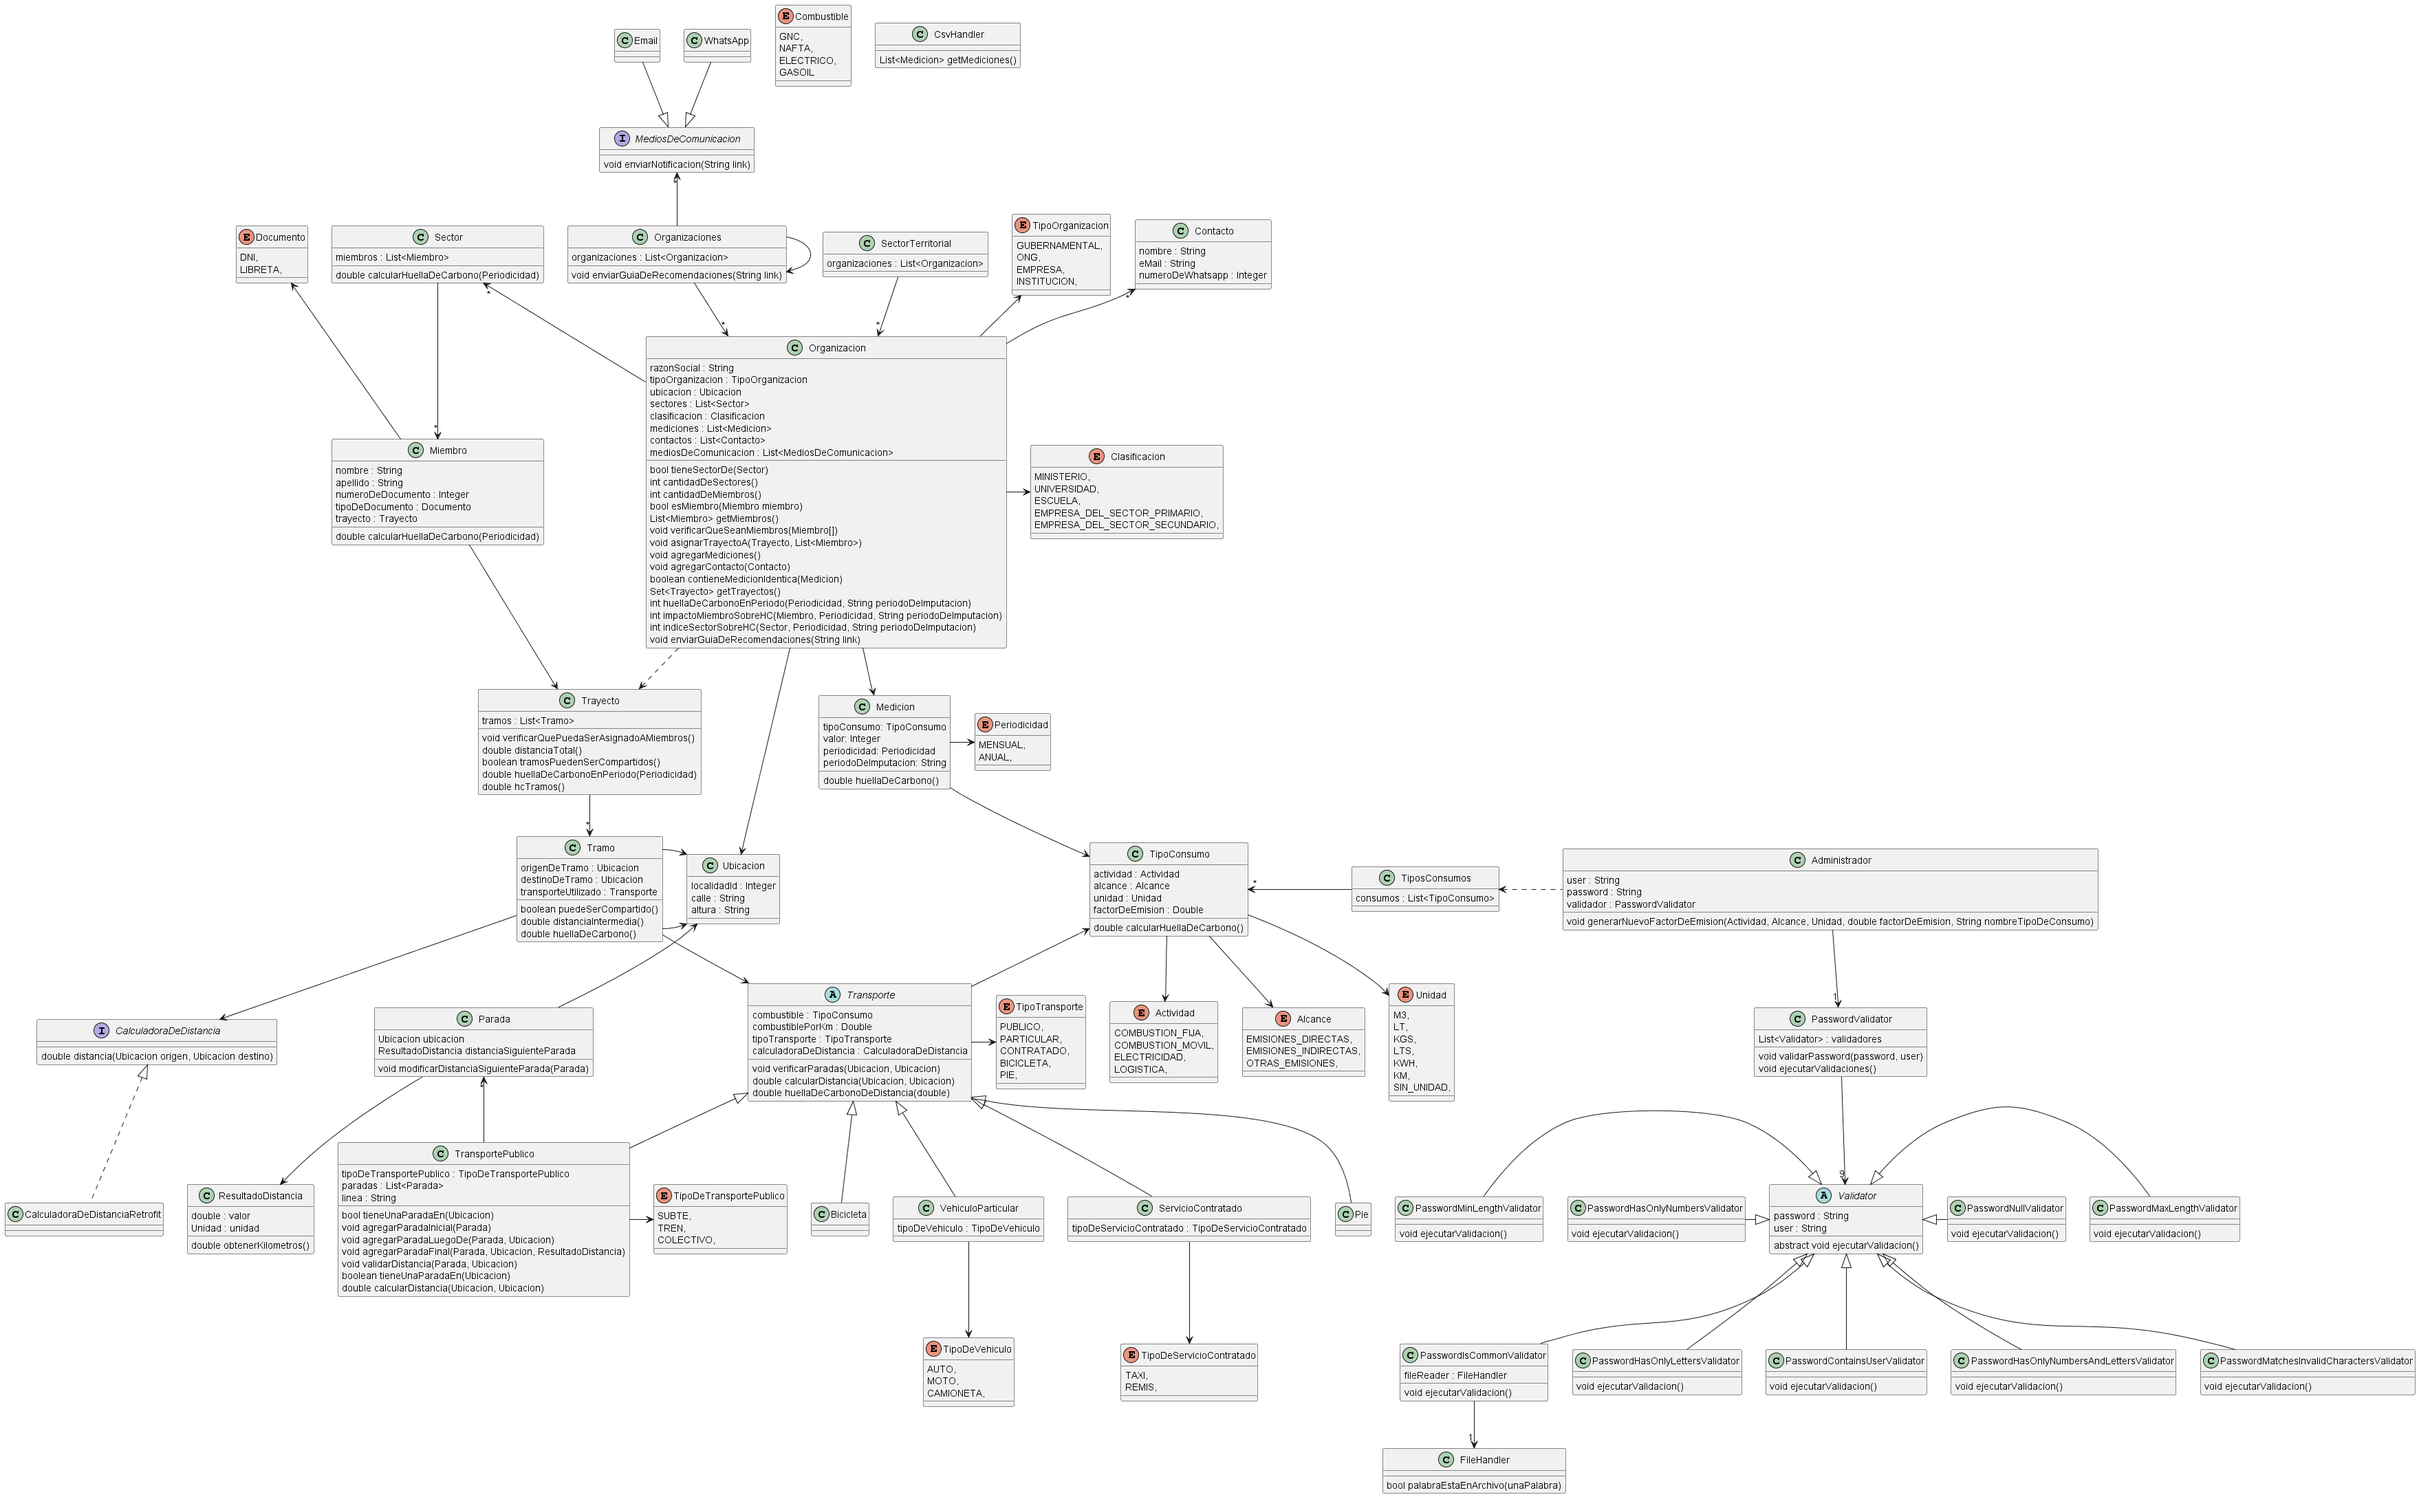
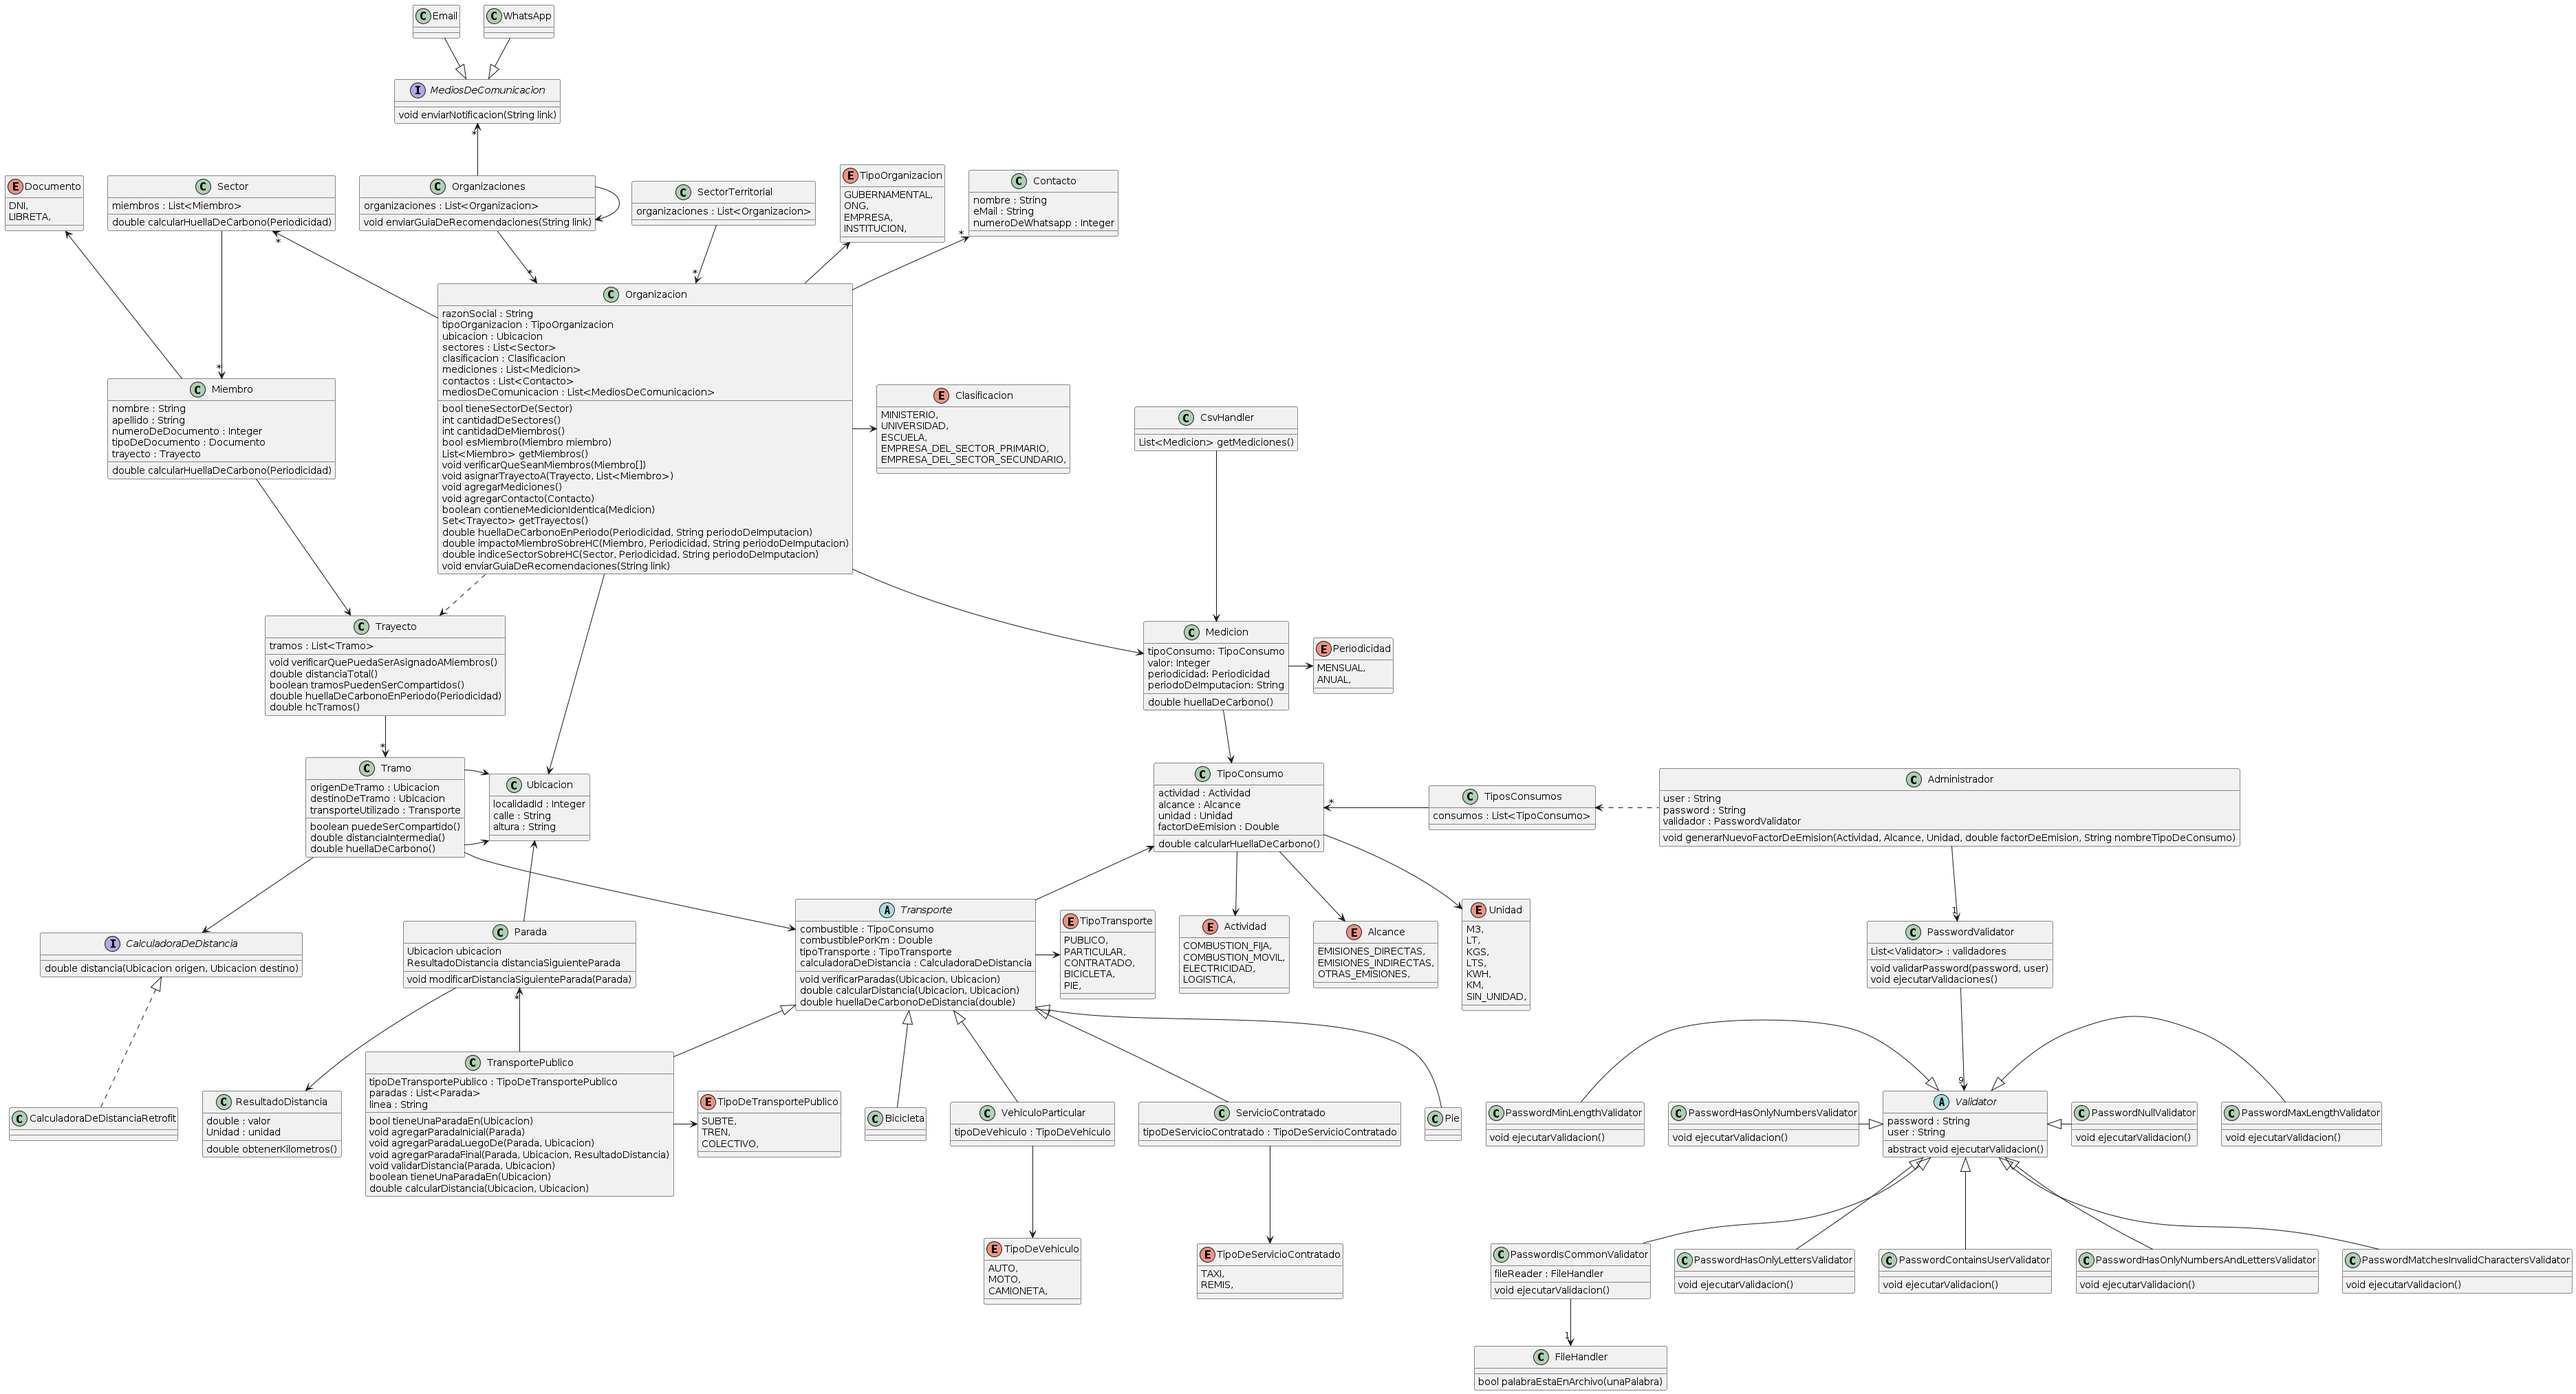
Update diagrama + borrado de TODOs

diff --git a/src/main/java/domain/organizacion/Organizacion.java b/src/main/java/domain/organizacion/Organizacion.java
@@ -132,9 +132,6 @@ public class Organizacion {
     mediosDeComunicacion.add(medioDeComunicacion);
   }
 
-
-  // Cambiado a double
-  // TODO: Cambiar en diagrama
   public double huellaDeCarbonoEnPeriodo(Periodicidad periodicidad, String periodoDeImputacion) {
     return hcMedicionesEnPeriodo(periodicidad, periodoDeImputacion)
         + hcTrayectosMiembros(periodicidad);
@@ -169,24 +166,17 @@ public class Organizacion {
         .collect(Collectors.toSet());
   }
 
-  // Cambiado a double
-  // TODO: Cambiar en diagrama
   public double impactoMiembroSobreHC(Miembro miembro,
                                    Periodicidad periodicidad,
                                    String periodoDeImputacion) {
-    // TODO: revisar que este bien.
     this.verificarQueSeaMiembro(miembro);
-    //  En este caso lo mostramos como porcentaje
     return huellaDeCarbonoEnPeriodo(periodicidad, periodoDeImputacion)
         / miembro.calcularHuellaDeCarbono(periodicidad);
   }
 
-  // Cambiado a double
-  // TODO: Cambiar en diagrama
   public double indiceSectorSobreHC(Sector sector,
                                  Periodicidad periodicidad,
                                  String periodoDeImputacion) {
-    // TODO: revisar
     this.verificarQueSeaSector(sector);
     return huellaDeCarbonoEnPeriodo(periodicidad, periodoDeImputacion)
         / sector.calcularHuellaDeCarbono(periodicidad);

diff --git a/src/main/java/domain/medicion/MedicionAdapter.java b/src/main/java/domain/medicion/MedicionAdapter.java
@@ -22,9 +22,6 @@ public class MedicionAdapter {
   }
 
   public String adaptarPeriodo(MedicionRead unaMedicion) {
-    /*
-      TODO: Analizar si conviene modelarlo como String y en caso de que no, adaptarlo aca
-    */
     return unaMedicion.getPeriodoDeImputacion();
   }
 

diff --git a/src/main/java/domain/medicion/MedicionRead.java b/src/main/java/domain/medicion/MedicionRead.java
@@ -24,5 +24,4 @@ public class MedicionRead {
         + ", Valor: " + valor + ", Periodicidad: " + periodicidad
         + ", Periodo de imputacion: " + periodoDeImputacion + "]";
   }
-  // TODO: Agregar al diagrama de clases
 }

diff --git a/src/main/java/domain/medicion/Periodicidad.java b/src/main/java/domain/medicion/Periodicidad.java
@@ -18,5 +18,3 @@ public enum Periodicidad {
     return 0;
   }
 }
-// TODO: Analizar refactor para el calculo de huella de carbono -> Strategy
-// TODO: Agregar metodo a  diagrama

diff --git a/src/main/java/domain/medicion/TipoConsumo.java b/src/main/java/domain/medicion/TipoConsumo.java
@@ -25,8 +25,6 @@ public class TipoConsumo {
     this.nombre = nombre;
   }
 
-  // TODO: Analizar otros refactors
-
   @Override
   public String toString() {
     return nombre;

diff --git a/src/main/java/domain/transporte/Transporte.java b/src/main/java/domain/transporte/Transporte.java
@@ -38,5 +38,3 @@ public abstract class Transporte {
     return combustible.calcularHuellaDeCarbono(distanciaRecorrida * combustiblePorKm);
   }
 }
-
-// TODO: verificar
